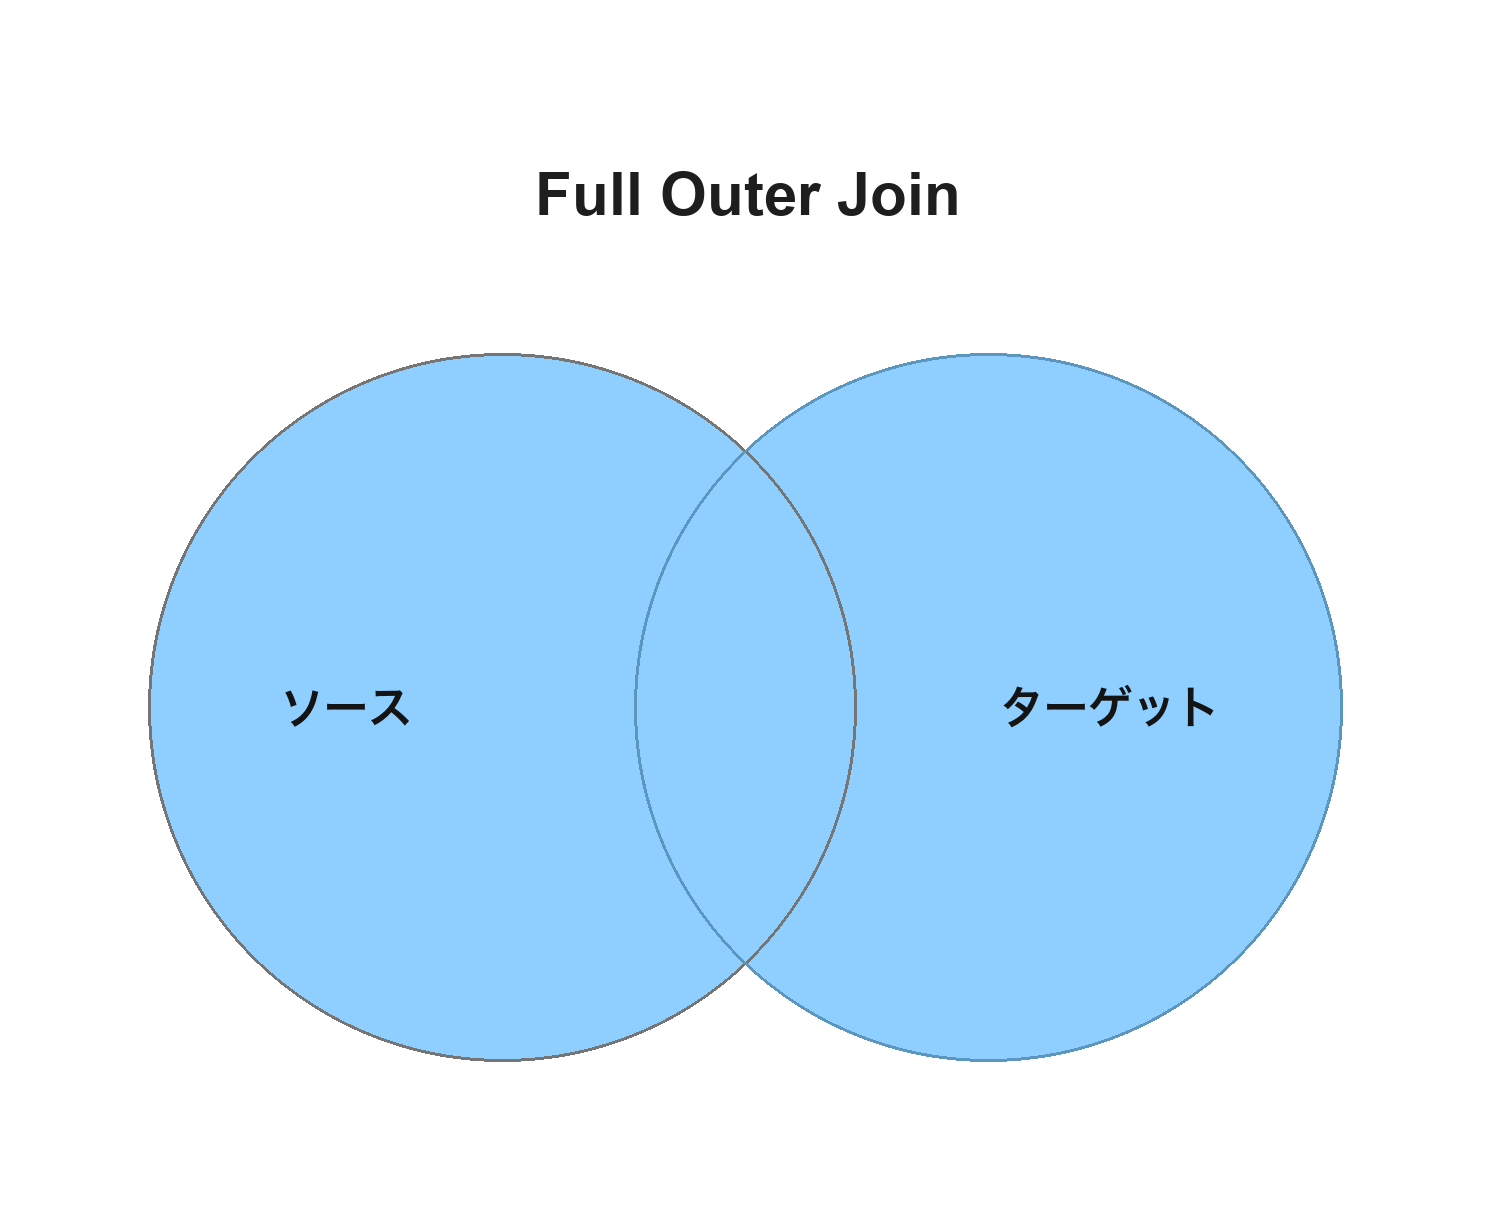
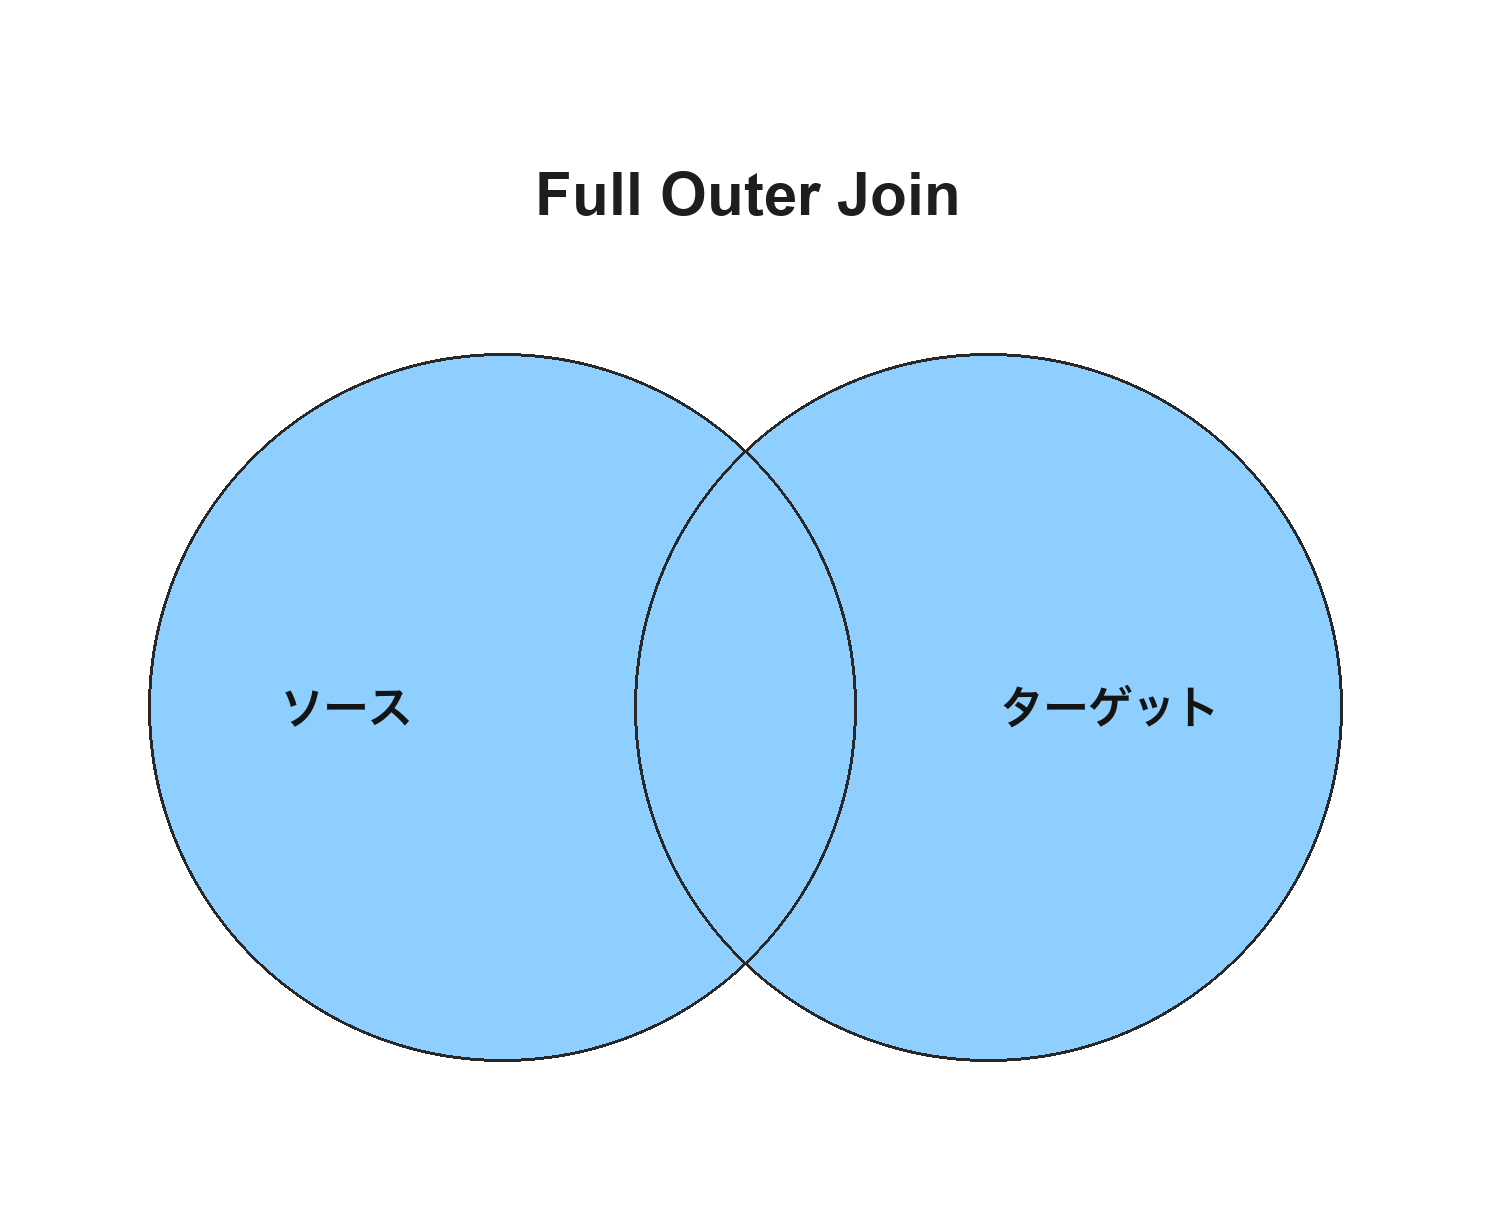
記事修正: Left Antiのベン図追加、フェーズ2にコード追加、まとめをナラティブに、ベン図の枠線を黒に統一
- Left Anti Joinのベン図を新規作成し「特殊ケース：Insert-only MERGE」に追加
- 既存4種類(Inner/Left Outer/Right Outer/Full Outer)のベン図を、
  枠線を全て黒に統一して再生成(targetを塗る図でtarget円の枠が
  青系になっていたのを修正)
- フェーズ2「書き込み内容の計算」に、writeAllChangesのjoinType
  決定部分の実コード(ClassicMergeExecutor.scala)を追加。
  参考リンクにも同ファイルを追加
- まとめを箇条書きから、他の記事(federation-guide等)に合わせた
  ナラティブな文章に書き直し

Changed region(s): [[0.492, 0.7812, 0.5227, 0.8125], [0.492, 0.3438, 0.5227, 0.375]]

diff --git a/articles/delta-lake-merge-into-internals-and-clustering.md b/articles/delta-lake-merge-into-internals-and-clustering.md
@@ -221,6 +221,33 @@ DV無効は未変更行も含める必要があるためジョインが広め（
 | 読む範囲 | テーブル全体| フェーズ1が特定した対象ファイルのみ |
 | 目的 | 「どのファイルが対象になり得るか」を判定する | 対象ファイルの中身を実際に書き直すため、行ごとの値を計算する |
 
+`writeAllChanges`（`ClassicMergeExecutor.scala`）のジョイン種別決定部分を単純化すると、次のようになっています。
+
+```scala
+val joinType = if (writeUnmodifiedRows) {
+  // DV無効: 未変更行も書き込む必要がある
+  if (isMatchedOnly) {
+    "rightOuter"
+  } else {
+    "fullOuter"
+  }
+} else {
+  // DV有効: 未変更行を書かなくてよい分、条件を絞り込める
+  if (isMatchedOnly) {
+    "inner"
+  } else if (notMatchedBySourceClauses.isEmpty) {
+    "leftOuter"
+  } else if (notMatchedClauses.isEmpty) {
+    "rightOuter"
+  } else {
+    "fullOuter"
+  }
+}
+```
+
+（実コードを単純化した抜粋です。CDF関連の処理など、この記事のテーマに関係しない部分は省略しています）
+
+`writeUnmodifiedRows`は、前述の`shouldWritePersistentDeletionVectors`の結果がそのまま渡ってくる引数です。DV無効時は`true`（未変更行も書き込む）、DV有効時は`false`（未変更行は書かない）になります。DV無効側は`isMatchedOnly`（`WHEN MATCHED`句しかないか）だけで`rightOuter`/`fullOuter`の2択になりますが、DV有効側は`isMatchedOnly`・`notMatchedBySourceClauses`・`notMatchedClauses`の3つの条件を順に見ていくことで、4種類のジョインを使い分けています。
 
 ### DVが無効の場合
 
@@ -305,7 +332,9 @@ DV無効時は未変更行も含めてジョイン結果をそのまま書き込
 
 ## 特殊ケース：Insert-only MERGE
 
-`WHEN NOT MATCHED THEN INSERT`だけを持つMERGEは特別扱いされます。フェーズ1のジョインは`Left Anti`になり、「ソースにあってターゲットにない行」を直接抽出します。既存ファイルを一切書き換える必要がないため、単純な追記（append）で完結します。
+`WHEN NOT MATCHED THEN INSERT`だけを持つMERGEは特別扱いされます。フェーズ1のジョインは`Left Anti`になり、「ソースにあってターゲットにない行」を直接抽出します。既存ファイルを一切書き換える必要がないため、単純な追記で完結します。
+
+![Left Anti Joinのベン図。ソースにあってターゲットにない行だけが結果に残る](/images/delta-lake-merge-into-internals-and-clustering/left-anti-join.png)
 
 ![Insert-only MERGEの処理フロー。ソーステーブルとターゲットテーブルをLeft Anti Joinし、ターゲットに存在しない行だけを新規ファイルとして追記する](/images/delta-lake-merge-into-internals-and-clustering/insert-only-merge-flow.png)
 
@@ -317,14 +346,18 @@ Liquid Clusteringも、[Low shuffle merge](https://learn.microsoft.com/en-us/azu
 
 # まとめ
 
-- `MERGE INTO`は「対象ファイルを絞り込むジョイン」→「書き込み内容を計算するジョインと書き込み」の2フェーズ構成。ジョイン種別は`WHEN`句の組み合わせとDVの有効・無効で機械的に決まる。
-- Insert-only MERGEは`Left Anti`ジョインになり、既存ファイルを一切書き換えない。
-- DV有効なら変更対象の行だけを新規ファイルに書けばよく、DV無効なら該当ファイルを丸ごと書き直すCopy-on-Write方式になる。
-- Z-orderやLiquid Clusteringによるデータスキッピングは、ソース側の絞り込み条件が狭いことを前提にした最適化であり、`ON`句にパーティション列などの絞り込み条件を明示しない限り十分に効かないことがある。
+本記事では、Delta LakeのOSSコードを読みながら`MERGE INTO`の内部動作を整理しました。`MERGE INTO`は「対象ファイルを絞り込むフェーズ1」と「書き込み内容を計算するフェーズ2」という2段階のジョインで構成されていて、実際に使われるジョイン種別（Inner / Left Outer / Right Outer / Full Outer / Left Anti）は、`WHEN`句の組み合わせとDeletion Vectorsの有効・無効によって機械的に決まります。
+
+とくに印象的だったのは、Insert-onlyパターンが`Left Anti`ジョインとして特別扱いされ、既存ファイルに一切触れず単純な追記で完結する点と、DVの有効・無効で書き込みコストが大きく変わる点です。DV有効なら変更対象の行だけを新規ファイルに書けばよいのに対し、DV無効だと該当ファイルを丸ごと書き直すCopy-on-Write方式になり、同じ`UPDATE`でも内部で起きていることはまったく違います。
+
+Z-orderやLiquid Clusteringによるデータスキッピングも、`MERGE INTO`に対しては万能ではありません。ソース側の絞り込み条件が狭いときにしか効かず、CDC由来のバッチのようにキーがテーブル全体に散らばっていると、クラスタリングしていてもスキップできる余地がほとんどなくなります。`ON`句にパーティション列などの絞り込み条件を明示できるかどうかが、実運用でのパフォーマンスを左右しそうです。
+
+内部の仕組みを知っておくと、`MERGE INTO`が重い・コストがかかると感じたときに「ソース側の条件を絞れないか」「DVを有効にできないか」といった打ち手を、憶測ではなく根拠を持って選べるようになります。
 
 # 参考リンク
 
 - [delta-io/delta: MergeIntoCommand.scala (v3.2.0)](https://github.com/delta-io/delta/blob/v3.2.0/spark/src/main/scala/org/apache/spark/sql/delta/commands/MergeIntoCommand.scala)
+- [delta-io/delta: ClassicMergeExecutor.scala (v3.2.0)](https://github.com/delta-io/delta/blob/v3.2.0/spark/src/main/scala/org/apache/spark/sql/delta/commands/merge/ClassicMergeExecutor.scala)
 - [Diving Into Delta Lake: DML Internals (Update, Delete, Merge) - Databricks Blog](https://www.databricks.com/blog/2020/09/29/diving-into-delta-lake-dml-internals-update-delete-merge.html)
 - [Faster MERGE Performance With Low-Shuffle Merge and Photon - Databricks Blog](https://www.databricks.com/blog/faster-merge-performance-low-shuffle-merge-and-photon)
 - [Low shuffle merge on Databricks](https://learn.microsoft.com/en-us/azure/databricks/optimizations/low-shuffle-merge)
